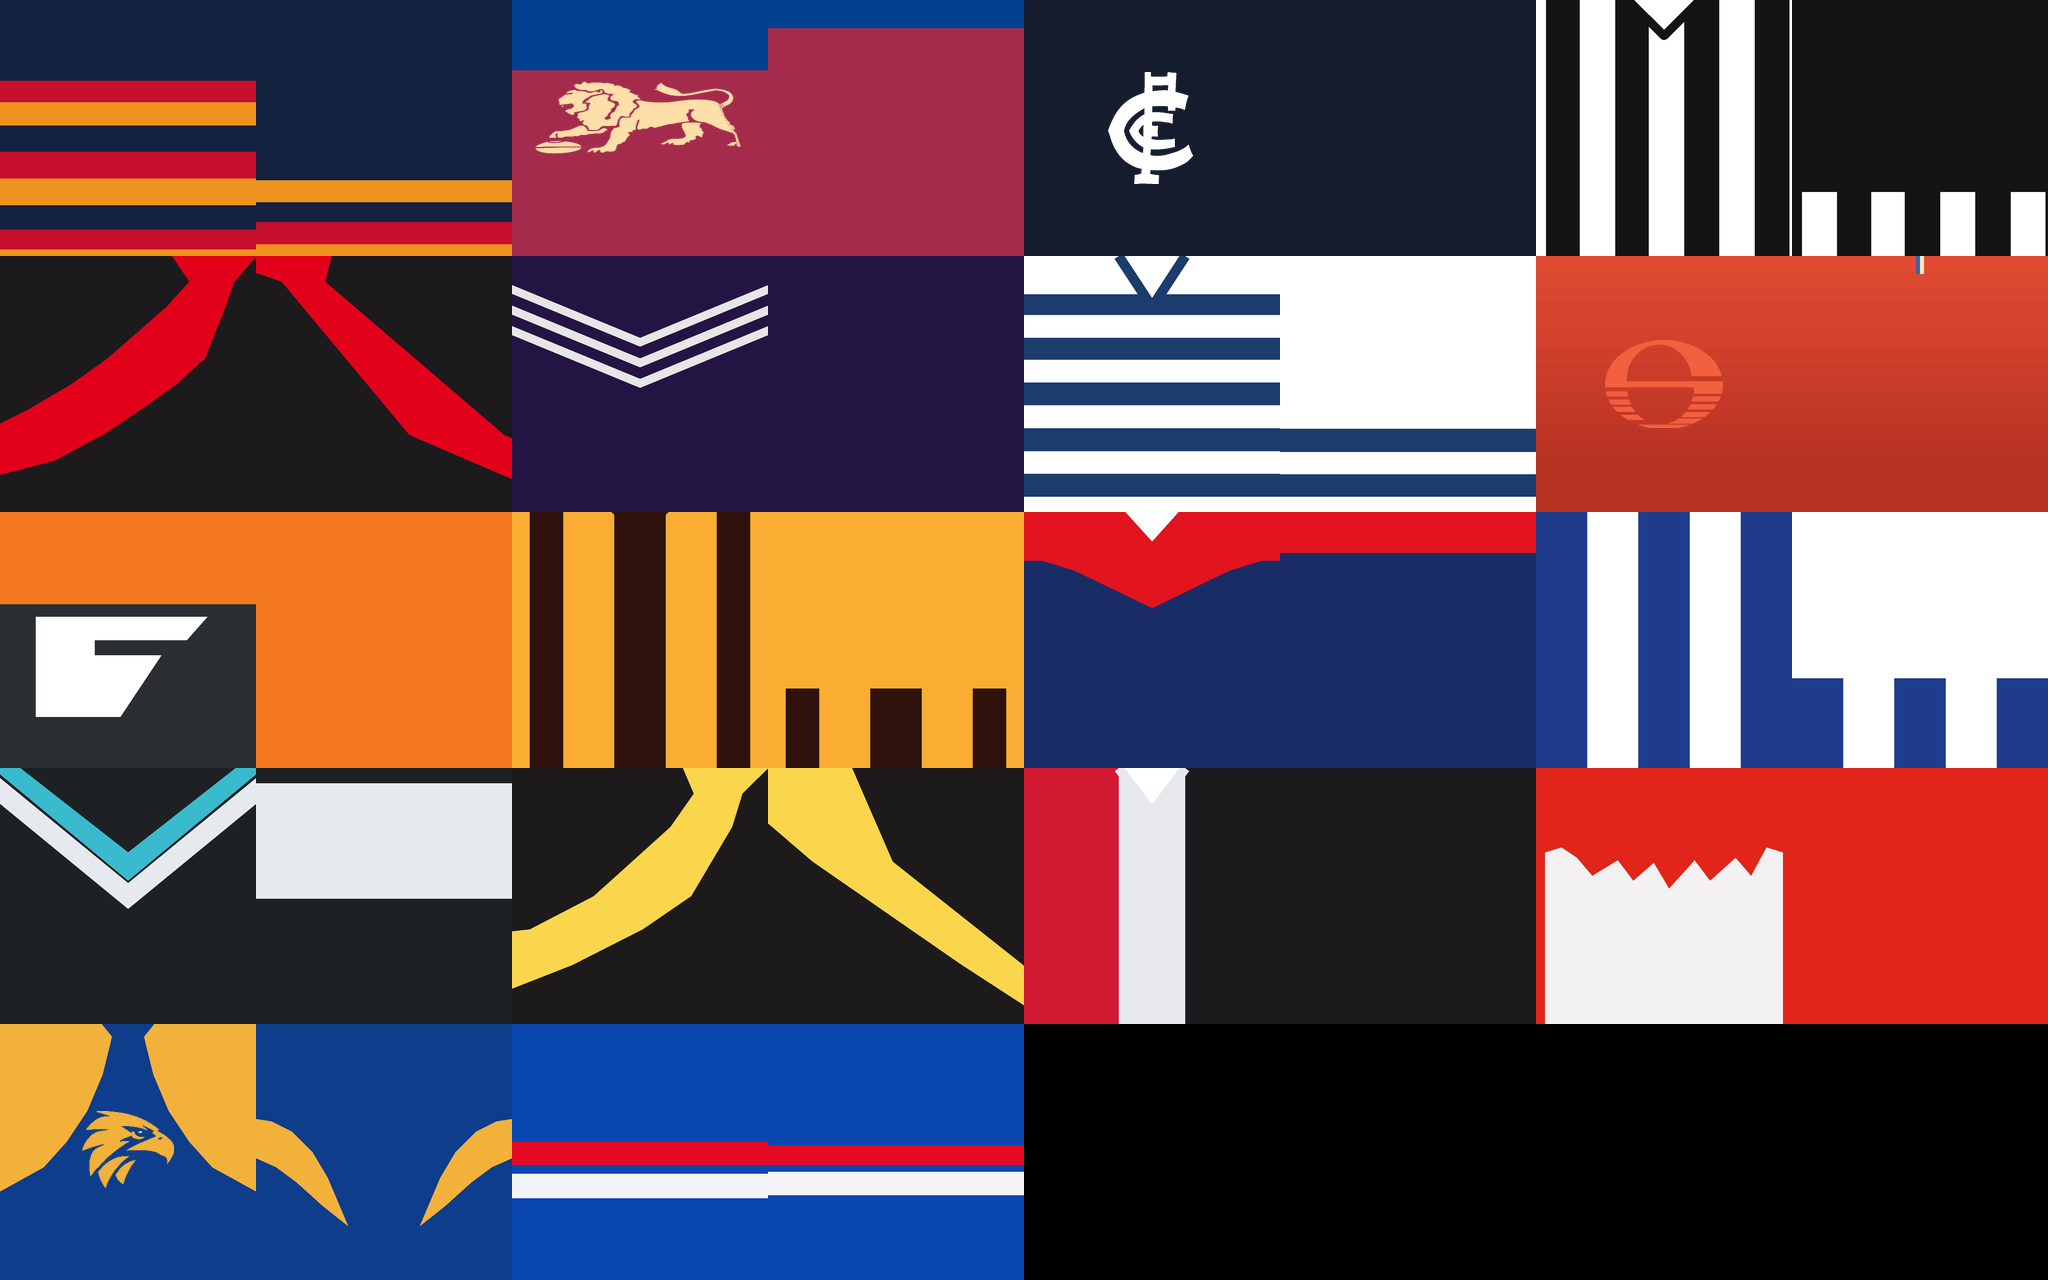
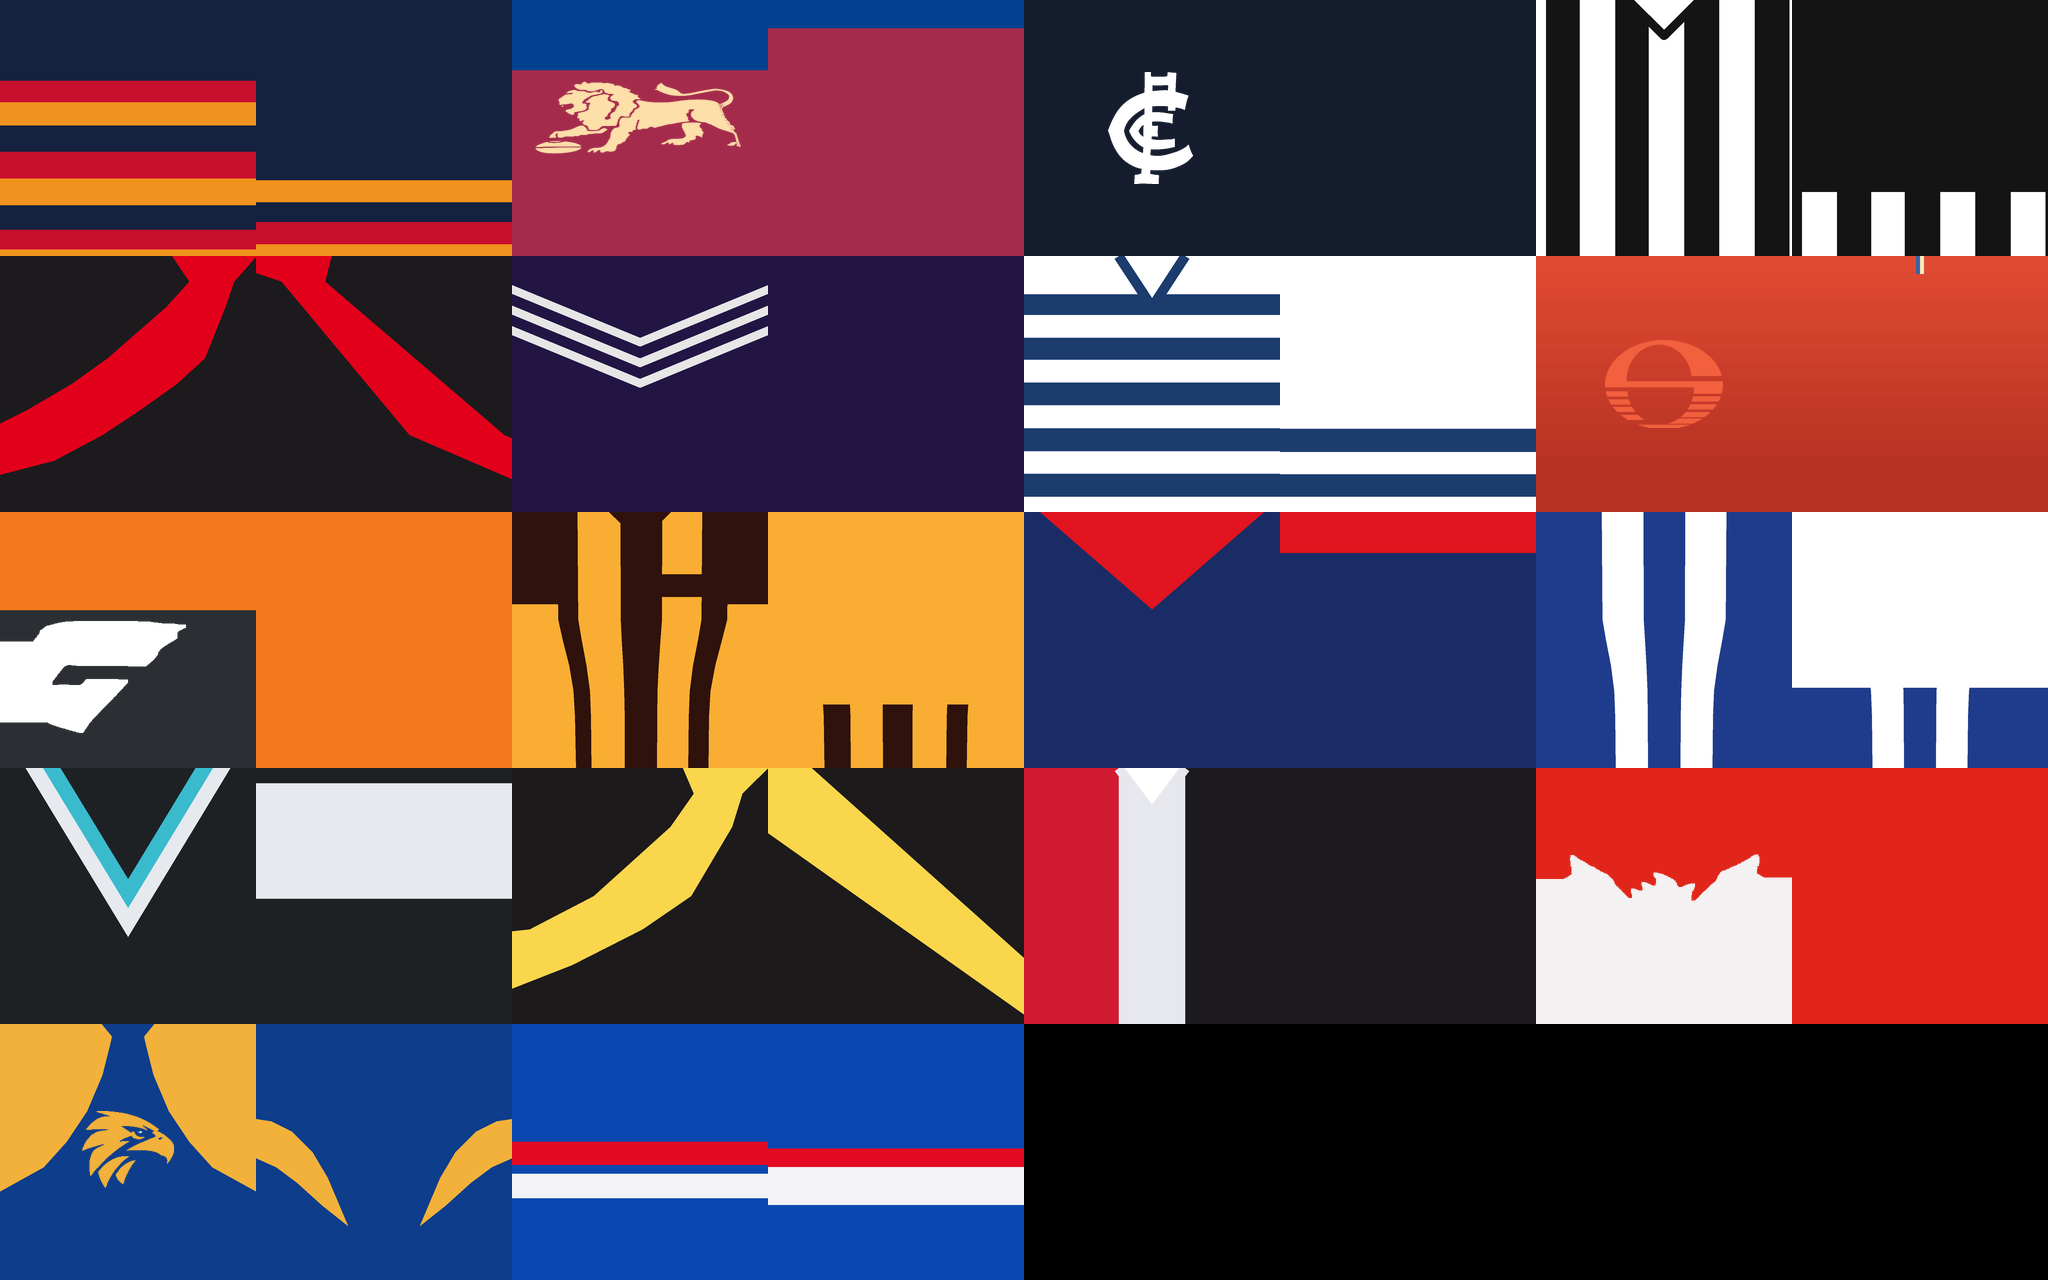
Guernsey notes 1-8: eight 2026 guernseys copied from their photos, numbers in each club's real colour
WBD hoops, SYD Opera House sails, RIC straight back sash, PAD V at the real angle, NTH and HAW stripes,
MEL V, GWS G, all measured from shop and match photos. Each back number takes its club's colour
(Richmond's black edge) and sits where 2026 match backs carry it.

diff --git a/tools/kits/kits_today.py b/tools/kits/kits_today.py
@@ -62,9 +62,11 @@ def parse(path, clubs):
         for ops in (f_ops, b_ops):
             for op in ops:
                 t = op.split()
-                if t[0] in ("collar", "armholes", "shorts"):
+                if t[0] == "number":
+                    trims["number"] = (kit_atlas.colour(t[1], cols), kit_atlas.colour(t[2], cols) if len(t) > 2 else "")
+                elif t[0] in ("collar", "armholes", "shorts"):
                     trims[t[0]] = (kit_atlas.colour(t[1], cols), float(t[2]) if len(t) > 2 else 2.0)
-        drawn = lambda ops: [o for o in ops if o.split()[0] not in ("collar", "armholes", "shorts")]
+        drawn = lambda ops: [o for o in ops if o.split()[0] not in ("collar", "armholes", "shorts", "number")]
         kits.append({"code": code, "pic": pic, "front": drawn(f_ops), "back": drawn(b_ops), "cols": cols,
                      "trims": trims})
     return kits
@@ -100,12 +102,13 @@ def main():
     atlas.save(os.path.join(out or os.path.join(root, "assets", "oval3d"), "kits_today.png"), optimize=True)
     with open(os.path.join(out or os.path.join(root, "data"), "kits_today.csv"), "w", encoding="utf-8", newline="") as fh:
         w = csv.writer(fh, lineterminator="\n")
-        w.writerow(["code", "cell", "collar", "collar_cm", "armholes", "armholes_cm", "shorts", "picture"])
+        w.writerow(["code", "cell", "collar", "collar_cm", "armholes", "armholes_cm", "shorts", "picture",
+                    "number", "number_edge"])
         for i, k in enumerate(kits):
             c = k["trims"].get("collar", ("", 0.0))
             a = k["trims"].get("armholes", ("", 0.0))
             w.writerow([k["code"], i, c[0], c[1] if c[0] else "", a[0], a[1] if a[0] else "",
-                        k["trims"].get("shorts", ("", 0.0))[0], k["pic"]])
+                        k["trims"].get("shorts", ("", 0.0))[0], k["pic"], *k["trims"].get("number", ("", ""))])
     print("%d guernseys, atlas %dx%d" % (len(kits), atlas.width, atlas.height))
 
 
